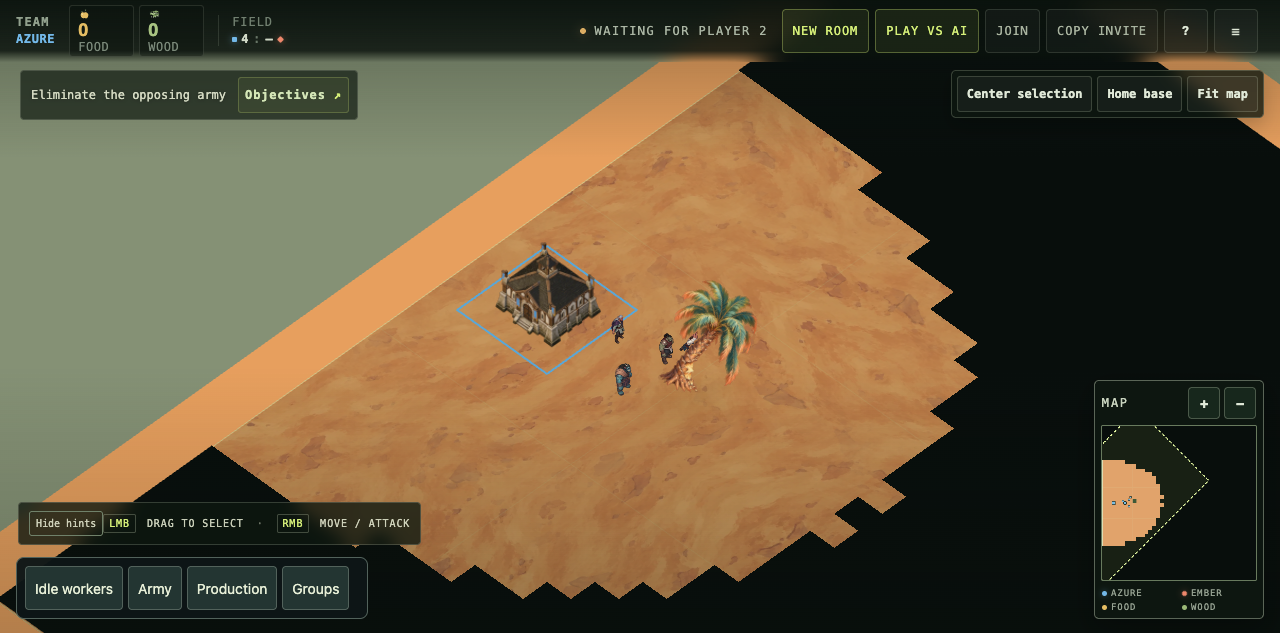
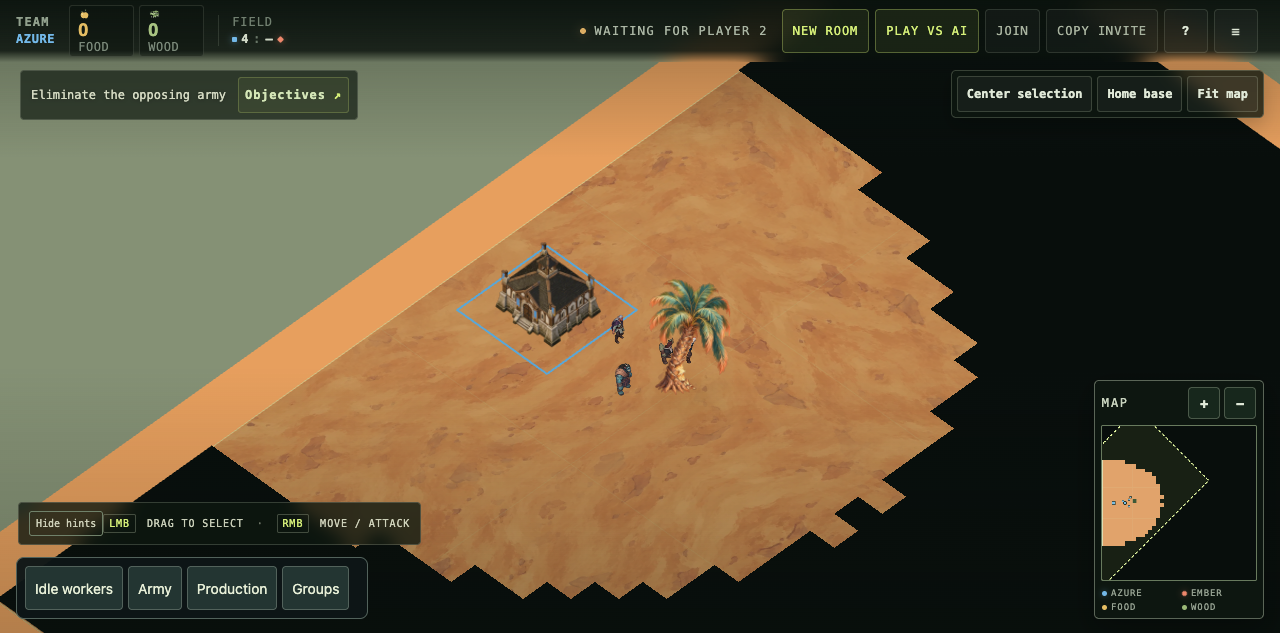
Record exact camera calibration and upright environment captures

Changed region(s): [[0.5, 0.4502, 0.5938, 0.6303]]

diff --git a/docs/environment-pack-v1.md b/docs/environment-pack-v1.md
@@ -349,3 +349,26 @@ totals. Texture caching still lacks eviction; no large-match GPU budget is
 claimed. [Maple evidence](qa-evidence/vaelora-bellweather-atlas-2026-09-30/README.md)
 and [palm evidence](qa-evidence/vaelora-sereward-atlas-2026-09-30/README.md)
 record appearance, UV state/reset selection and real palm harvesting.
+
+## Camera calibration and upright sprites · 30 September 2026
+
+The fixed camera direction is shared through `CAMERA_VIEW_DIRECTION` in
+`src/camera-controls.mjs`: [0.78,1.12,0.78], giving 45° azimuth and
+45.4359° elevation above ground. This is a steeper oblique view than true
+isometric's 35.2644° elevation. The camera remains unchanged.
+
+The old shortest-arc +Z-to-camera quaternion matched the viewing normal but
+introduced about -19.677° of screen roll. Environment sprites now use the
+camera's world-Y-up basis, removing that unintended sideways tilt. This covers
+individual sprites, instanced forest/rocks, state atlases and the legacy cliff
+comparison. Natural painted curves remain in the source art.
+
+QA previews use the same shared direction and target rather than an approximate
+[30,43,30] camera. Actual instance matrices are checked at all four stock stages
+for zero screen roll; ordinary/strategic captures and live harvesting/reset were
+repeated after integrating main `242d330` at `eb5cfac`. Camera-controls and
+reconnect tests pass. Future painted-art briefs should state orthographic view,
+45° azimuth, 45.4359° elevation, Y-up and zero screen roll; those prompt numbers
+are guidance, not proof of an AI-painted image's intrinsic perspective. Exact
+source-view calibration requires a reproducible 3D capture or a measured art
+construction.

diff --git a/docs/qa-evidence/vaelora-bellweather-atlas-2026-09-30/README.md b/docs/qa-evidence/vaelora-bellweather-atlas-2026-09-30/README.md
@@ -24,3 +24,17 @@ release packaging checks support integrity. Both JSON/WebP pairs appear in
 the release manifest; Docker admission explicitly includes the JSON files. Batch count is an implementation
 observation, not an FPS or residency measurement. Padding costs additional GPU
 memory; the owning environment guide records estimates and cache limitations.
+
+## Camera correction and integrated rerun
+
+After user feedback about dramatic angles, instance-facing matrices were changed
+to match the camera's world-Y-up basis. The former shortest-arc quaternion added
+about -19.677° of unintended screen roll. Current captures use the shared exact
+[0.78,1.12,0.78] camera direction (45° azimuth, 45.4359° elevation).
+`screenRollDegrees` in the lifecycle proof is within 0.0001° of zero across all
+four tested states. Natural curves in the painted palm remain.
+
+The local server was restarted on integrated main `242d330`/branch merge
+`eb5cfac`, and the browser capture passed again. Camera controls scenario, camera
+recovery tests (3), client imports (5), and stationary-command tests (6) passed.
+No staging or intrinsic generated-image perspective calibration claim.

diff --git a/docs/qa-evidence/vaelora-sereward-atlas-2026-09-30/README.md b/docs/qa-evidence/vaelora-sereward-atlas-2026-09-30/README.md
@@ -34,3 +34,17 @@ prove both-seat hidden-state behavior or worker deposit completion.
 with HTTP 404, reloads the live page, and verifies both families return to their
 four individual state batches with decoded textures and depleted-state mapping.
 The browser remains ready with empty runtime-error text.
+
+## Camera correction and integrated rerun
+
+After user feedback about dramatic angles, instance-facing matrices were changed
+to match the camera's world-Y-up basis. The former shortest-arc quaternion added
+about -19.677° of unintended screen roll. Current captures use the shared exact
+[0.78,1.12,0.78] camera direction (45° azimuth, 45.4359° elevation).
+`screenRollDegrees` in the lifecycle proof is within 0.0001° of zero across all
+four tested states. Natural curves in the painted palm remain.
+
+The local server was restarted on integrated main `242d330`/branch merge
+`eb5cfac`, and the browser capture passed again. Camera controls scenario, camera
+recovery tests (3), client imports (5), and stationary-command tests (6) passed.
+No staging or intrinsic generated-image perspective calibration claim.
